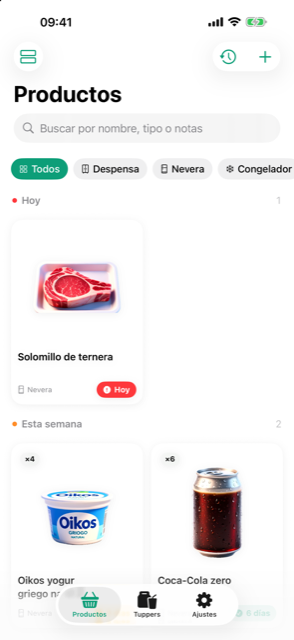
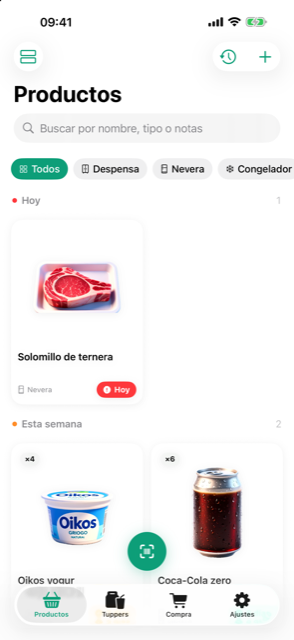
Capturas actualizadas en ES/EN con la app al día e idioma según el navegador con selector

Changed region(s): [[0.4286, 0.8125, 0.7347, 0.9688], [0.0612, 0.9062, 0.4286, 0.9688], [0.7959, 0.9062, 0.8571, 0.9688]]

diff --git a/en/index.html b/en/index.html
@@ -8,6 +8,13 @@
 <link rel="icon" href="../img/icon.png">
 <link rel="alternate" hreflang="es" href="https://jmhdevelop.github.io/freshtrack-web/">
 <link rel="alternate" hreflang="en" href="https://jmhdevelop.github.io/freshtrack-web/en/">
+<script>
+  (function () {
+    try {
+      if (localStorage.getItem("ft-lang") === "es") location.replace("../");
+    } catch (e) {}
+  })();
+</script>
 <style>
   :root {
     --brand: #0D9E78;
@@ -185,7 +192,7 @@
     <div class="nav-links">
       <a href="#features">Features</a>
       <a href="#privacy">Privacy</a>
-      <a class="lang" href="../">ES</a>
+      <a class="lang" href="../" onclick="try{localStorage.setItem('ft-lang','es')}catch(e){}">ES</a>
       <a class="pill" href="#hero">Coming soon</a>
     </div>
   </div>
@@ -201,7 +208,7 @@
         <span class="badge soft">iPhone & iPad · Free</span>
       </div>
     </div>
-    <div class="phone float reveal"><span class="parallax"><img src="../img/products.png" alt="FreshTrack: products grouped by expiry urgency"></span></div>
+    <div class="phone float reveal"><span class="parallax"><img src="../img/en-products.png" alt="FreshTrack: products grouped by expiry urgency"></span></div>
   </div>
 </header>
 
@@ -222,7 +229,7 @@
           <li>Multipacks detected (“24 × 330 ml” → 24 units)</li>
         </ul>
       </div>
-      <div class="phone reveal"><span class="parallax"><img src="../img/add.png" alt="Add product sheet: scan or manual"></span></div>
+      <div class="phone reveal"><span class="parallax"><img src="../img/en-add.png" alt="Add product sheet: scan or manual"></span></div>
     </div>
 
     <div class="row flip">
@@ -236,7 +243,7 @@
           <li>Nothing leaves your device</li>
         </ul>
       </div>
-      <div class="phone reveal"><span class="parallax"><img src="../img/detail.png" alt="Product detail with data read by on-device AI"></span></div>
+      <div class="phone reveal"><span class="parallax"><img src="../img/en-detail.png" alt="Product detail with data read by on-device AI"></span></div>
     </div>
 
     <div class="row">
@@ -250,7 +257,7 @@
           <li>With an AI-generated photo of the dish</li>
         </ul>
       </div>
-      <div class="phone reveal"><span class="parallax"><img src="../img/tuppers.png" alt="Containers with dish image and expiry"></span></div>
+      <div class="phone reveal"><span class="parallax"><img src="../img/en-tuppers.png" alt="Containers with dish image and expiry"></span></div>
     </div>
 
     <div class="row flip">
@@ -264,7 +271,7 @@
           <li>Custom accent color and app icon per home</li>
         </ul>
       </div>
-      <div class="phone reveal"><span class="parallax"><img src="../img/casas.png" alt="FreshTrack homes manager"></span></div>
+      <div class="phone reveal"><span class="parallax"><img src="../img/en-casas.png" alt="FreshTrack homes manager"></span></div>
     </div>
 
     <div class="row">
@@ -278,7 +285,7 @@
           <li>Rescan after shopping and the product re-adds itself</li>
         </ul>
       </div>
-      <div class="phone reveal"><span class="parallax"><img src="../img/compra.png" alt="FreshTrack shopping list"></span></div>
+      <div class="phone reveal"><span class="parallax"><img src="../img/en-compra.png" alt="FreshTrack shopping list"></span></div>
     </div>
 
     <div class="strip">

diff --git a/index.html b/index.html
@@ -8,6 +8,18 @@
 <link rel="icon" href="img/icon.png">
 <link rel="alternate" hreflang="es" href="https://jmhdevelop.github.io/freshtrack-web/">
 <link rel="alternate" hreflang="en" href="https://jmhdevelop.github.io/freshtrack-web/en/">
+<script>
+  // Idioma del navegador manda la primera vez; el selector ES/EN lo fija.
+  (function () {
+    try {
+      var pref = localStorage.getItem("ft-lang");
+      var nav = (navigator.language || "es").toLowerCase();
+      if (pref === "en" || (!pref && !nav.startsWith("es"))) {
+        location.replace("en/");
+      }
+    } catch (e) {}
+  })();
+</script>
 <style>
   :root {
     --brand: #0D9E78;
@@ -185,7 +197,7 @@
     <div class="nav-links">
       <a href="#funciones">Funciones</a>
       <a href="#privacidad">Privacidad</a>
-      <a class="lang" href="en/">EN</a>
+      <a class="lang" href="en/" onclick="try{localStorage.setItem('ft-lang','en')}catch(e){}">EN</a>
       <a class="pill" href="#hero">Próximamente</a>
     </div>
   </div>
